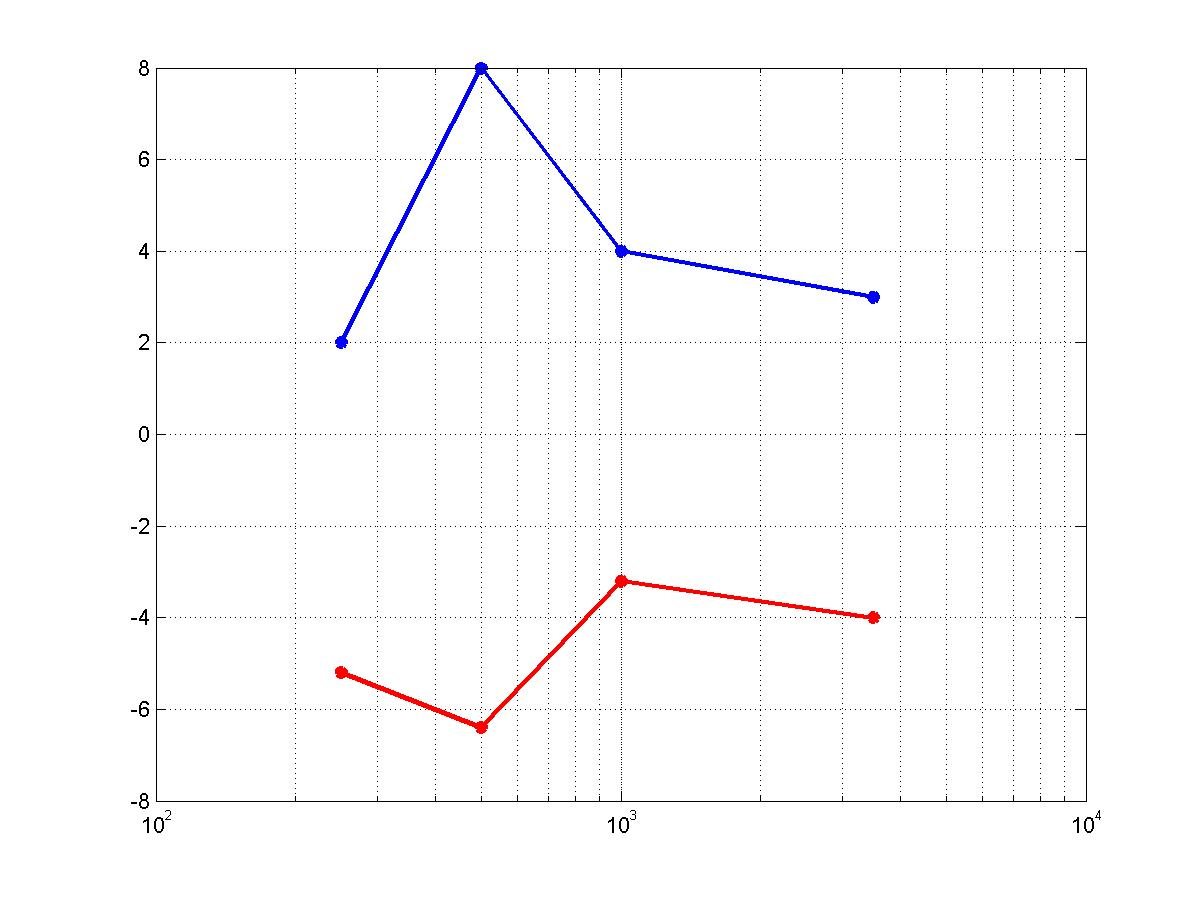
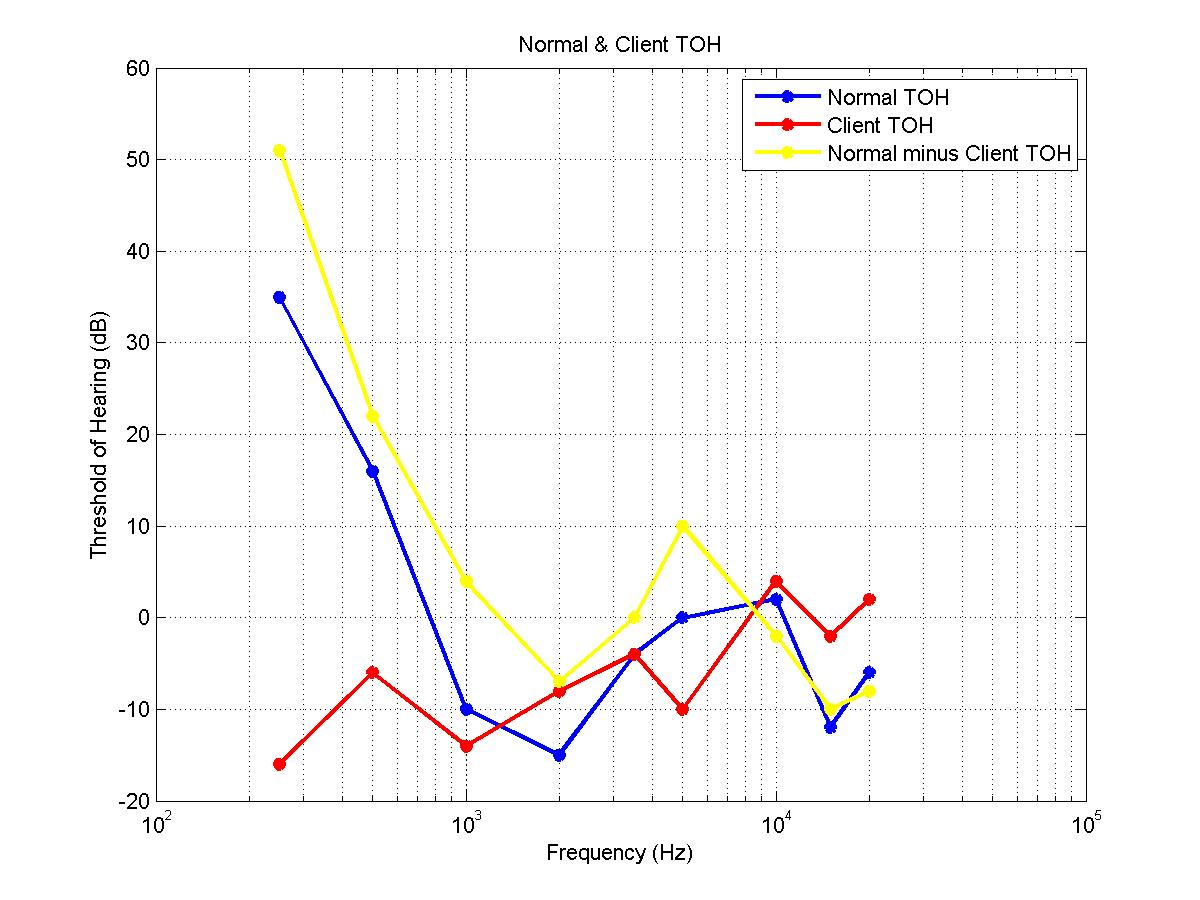
Added files. client_counts.xls has actual data in it

diff --git a/Matlab/Normal_vs_Client.m b/Matlab/Normal_vs_Client.m
@@ -13,21 +13,30 @@ normal_TOH = xlsread(normal_file);
 %Assume have same frequency points
 normal_vs_client = [normal_TOH(1,:); normal_TOH(2,:); client_TOH(2,:)]
 
+%concatenate Differences
+normal_vs_client = [normal_vs_client; normal_TOH(2,:) - client_TOH(2,:)];
 
 %plot data
+
 f1 = figure(1);
+%Plot Normal
+semilogx(normal_vs_client(1,:), normal_vs_client(2,:), 'b*-', 'LineWidth', 2);
+hold on
+%Plot Client
+semilogx(normal_vs_client(1,:), normal_vs_client(3,:), 'r*-', 'LineWidth', 2);
+%Plot difference
+semilogx(normal_vs_client(1,:), normal_vs_client(4,:), 'y*-', 'LineWidth', 2);
+grid
 title('Normal & Client TOH');
 xlabel('Frequency (Hz)');
 ylabel('Threshold of Hearing (dB)');
+legend('Normal TOH', 'Client TOH', 'Normal minus Client TOH');
 
-semilogx(normal_vs_client(1,:), normal_vs_client(2,:), 'b*-', 'LineWidth', 2);
-hold on
-semilogx(normal_vs_client(1,:), normal_vs_client(3,:), 'r*-', 'LineWidth', 2);
-grid
 
 %save plot
 saveas(f1, 'normal-vs-client_TOH.jpg');
 
 %save data
+delete('normal-vs-client_TOH')
 xlswrite('normal-vs-client_TOH', normal_vs_client);
 

diff --git a/Matlab/Get_Client_TOH.m b/Matlab/Get_Client_TOH.m
@@ -14,7 +14,7 @@ client_counts = xlsread(client_counts_file);
 
 %Create new array of TOH data
 client_TOH = client_counts(1, 1:2:end); %Get only freq row
-client_TOH = [client_TOH; mean(client_counts(2:end, 1:2:end))];
+client_TOH = [client_TOH; mean(client_counts(2:end, 1:2:end), 1)];
 
 
 %find index of cal frequency
@@ -25,16 +25,19 @@ client_TOH(2,:) = dbstep * (client_TOH(2, cal_index) - client_TOH(2,:)) + cal_db
 
 %Plot
 f1 = figure(1);
+semilogx(client_TOH(1,:), client_TOH(2,:), 'r*-', 'LineWidth', 2);
+grid
+
 title('Client TOH Curve')
 xlabel('Frequency (Hz)')
 ylabel('Threshold of Hearing (dB)')
-semilogx(client_TOH(1,:), client_TOH(2,:), 'r*-', 'LineWidth', 2);
-grid
+
 
 %Save Figure
 saveas(f1, 'client_TOH.jpg');
 
 %Save data
+delete('client_TOH.xls');
 xlswrite('client_TOH', client_TOH);
 
 

diff --git a/Matlab/Get_Client_Counts.m b/Matlab/Get_Client_Counts.m
@@ -15,7 +15,7 @@ test_num_sample_trials = 1;
 %*****TRIAL SETUP****************************
 %Enter the sample frequencies
 %MUST CONTAIN 3500
-sample_freqs = [250, 500, 1000, 3500];
+sample_freqs = [300, 500, 1000, 2000, 3000, 3500, 4000, 5000, 6000, 7000, 8000, 9000, 10000, 13000, 15000];
 %Enter number of trials for each data point. 
 num_sample_trials = 5;
 

diff --git a/Matlab/Get_TF.m b/Matlab/Get_TF.m
@@ -1,0 +1,13 @@
+close all
+
+lower_bound_freq = 50;
+lower_bound_db = 3;
+upper_bound_freq = 20000;
+upper_bound_db = 3;
+
+%Read in normal_vs_client
+normal_vs_client = xlsread('normal-vs-client_TOH.xls');
+
+tf = [normal_vs_client(1,:); normal_vs_client(4,:)];
+tf = [[lower_bound_freq; lower_bound_db], tf, [upper_bound_freq; upper_bound_db]];
+
